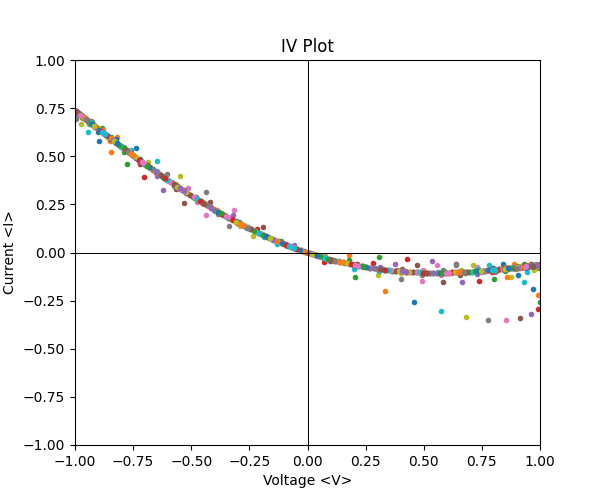
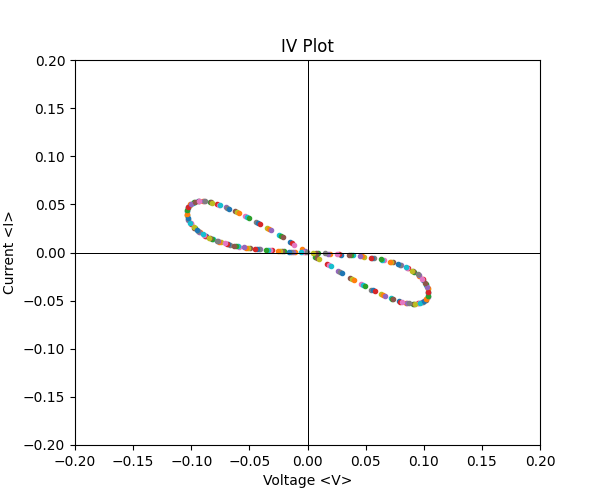
Fixed update of the voltage and Hysteresis in IV plot

diff --git a/q_memristor/numerical/main.py b/q_memristor/numerical/main.py
@@ -7,7 +7,7 @@ import numpy as np
 if __name__ == '__main__':
     # Time-steps
     eps = 0.1
-    tmax = 100.1
+    tmax = 20.1
     t = np.arange(0, tmax, eps)
 
     # Simulation parameters
@@ -38,8 +38,8 @@ if __name__ == '__main__':
     I = []
 
     # Initialize V_0 and I_0
-    # V.append(-(1 / 2) * np.sqrt((m * h * w) / 2) * mem.exp_value(pauli_y2, pure_state))
-    V.append(amplitude * np.sin(ang_freq * t[0] + angle))
+    V.append(-(1 / 2) * np.sqrt((m * h * w) / 2) * mem.exp_value(pauli_y2, pure_state))
+    # V.append(amplitude * np.sin(ang_freq * t[0] + angle))
     I.append(mem.gamma(t[0]) * V[0])
     print('V: ', V[0], ' at time: ', 0.0)
     print('I: ', I[0], ' at time: ', 0.0)
@@ -49,10 +49,10 @@ if __name__ == '__main__':
 
     for i in range(1, len(t)):
         # I is evaluated correcty however there is an error with the update of the voltage V at each iteration
-        # TODO: fix update of V at each iteration
-        angle = np.arccos(np.exp(mem.k1(t[i])))
-        v_val = amplitude * np.sin(ang_freq * t[i] + angle)
+        # angle = np.arccos(np.exp(mem.k1(t[i])))
+        # v_val = amplitude * np.sin(ang_freq * t[i] + angle)
         # V.append(V[0]*np.cos(w*t[i]))
+        v_val = V[0]*np.sin(w*t[i])
         V.append(v_val)
         I.append(mem.gamma(t[i]) * V[i])
         iv_plt.update(V[i], I[i])

diff --git a/q_memristor/plots/iv_plot.py b/q_memristor/plots/iv_plot.py
@@ -4,8 +4,8 @@ import matplotlib.pyplot as plt
 class IVplot:
     def __init__(self, v0, i0):
         self.fig, self.ax = plt.subplots(figsize=(6, 5))
-        self.ax.set_xlim(-1, 1)
-        self.ax.set_ylim(-1, 1)
+        self.ax.set_xlim(-0.2, 0.2)
+        self.ax.set_ylim(-0.2, 0.2)
         self.ax.axhline(0, color='black', linewidth=0.5)
         self.ax.axvline(0, color='black', linewidth=0.5)
         self.v0 = v0
@@ -27,8 +27,8 @@ class IVplot:
         self.ys = self.ys[-1:]
         # Uncomment the next line if we want to see only one dot at each update
         # self.ax.cla()
-        self.ax.set_xlim(-1, 1)
-        self.ax.set_ylim(-1, 1)
+        self.ax.set_xlim(-0.2, 0.2)
+        self.ax.set_ylim(-0.2, 0.2)
         self.ax.axhline(0, color='black', linewidth=0.5)
         self.ax.axvline(0, color='black', linewidth=0.5)
         self.ax.plot(self.xs, self.ys, 'o', markersize=3)
